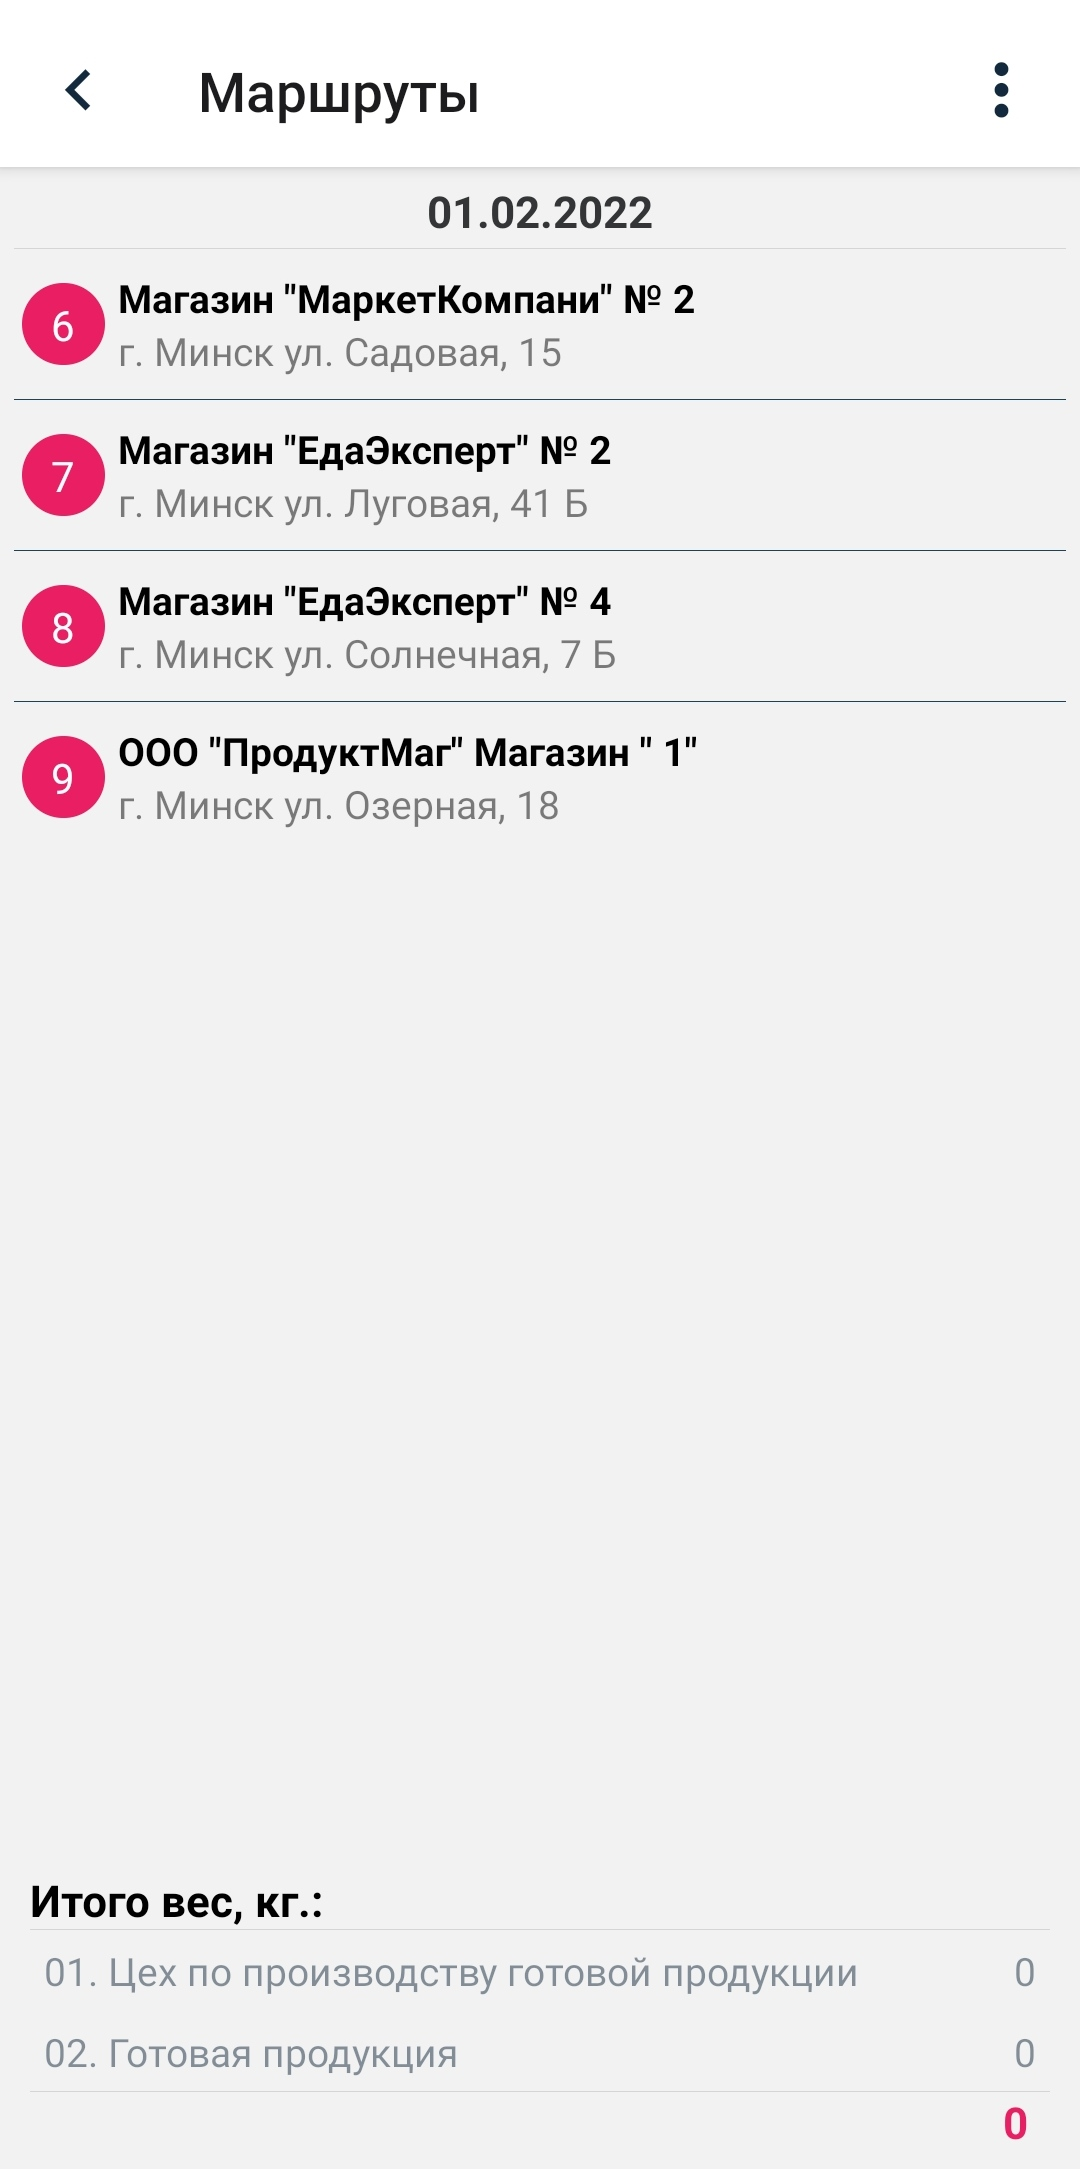
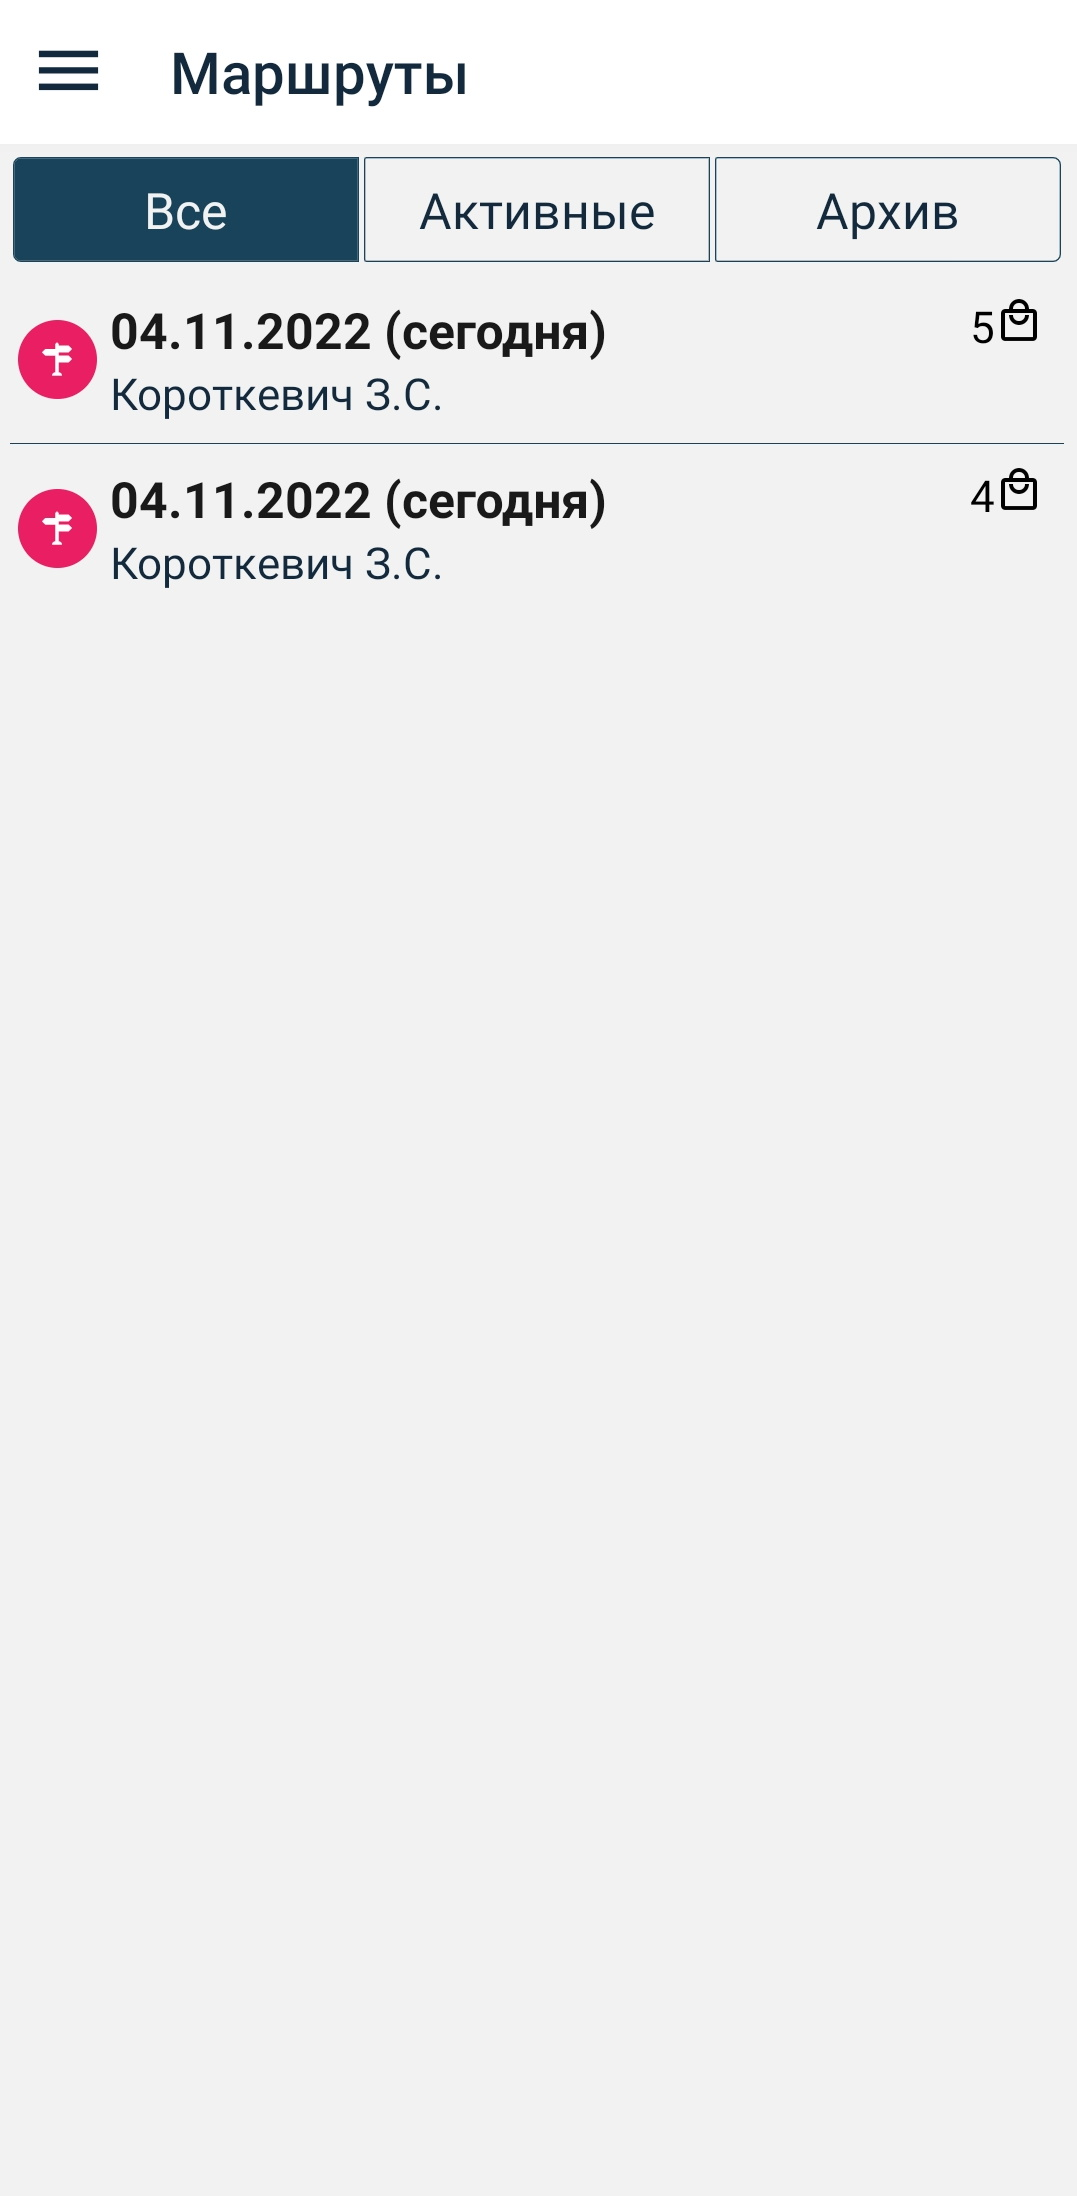
Changes docs

diff --git a/docs/gdmn-app-trade-agents/docs/README.md b/docs/gdmn-app-trade-agents/docs/README.md
@@ -360,9 +360,9 @@
 
 Ежедневно, в начале работы с приложением, необходимо делать синхронизацию для получения  справочников с актуальными даннными, матриц, дебеторских задолженностей и новых маршрутов. 
 
-Перейдем на экран **Точки маршрутов**.
+Перейдем на экран **Маршруты**, открыв боковую панель нажатием на иконку меню " **≡** ", находящуюся в левом верхнем углу приложения (или смахнув пальцем вправо с левого края устройства) и выбрав пункт **Маршруты**.
 
-Документы сгруппированы следующим образом:
+Документы на экране **Маршруты** сгруппированы следующим образом:
 
 | Группа | Описание                                                                                                                                                                    |
 | --------------- | --------------------------------------------------------------------------------------------------------------------------------------------------------------------------- |
@@ -370,7 +370,7 @@
 | Активные        | Маршруты, дата которых не менее текущей даты |
 | Архив           | Маршруты, дата которых меньше текущей даты |
 
-При выборе (нажатием на строку) необходимого маршрута откроется экран с торговыми точками, запланированными для посещения.
+При выборе (нажатием на строку) необходимого маршрута откроется экран с торговыми точками, запланированными для посещения, то есть переходим на экран **Точки маршрутов**.
 
 <img src="img/5.Routes/5.Routes.jpg" alt="drawing" height="400"/> <img src="img/5.Routes/5.Route.jpg" alt="drawing" height="400"/>
 
@@ -378,9 +378,10 @@
 
 Программа сама зафиксирует геокоординаты мобильного устройства и начало работы на торговой точке.
 
-При первом сеансе программа запросит разрешение на доступ к данным о месте расположения мобильного устройства, но в дальнейшем это будет проходить автоматически.
+При первом сеансе программа запросит разрешение на доступ к данным о месте расположения мобильного устройства, если ответ будет *"Всегда разрешать"*, то в дальнейшем это будет проходить автоматически. 
 
- !!!!!(в этот момент один раз телефон попросит разрешение на получение геокоординаты, которая будет записана в визит данной точки).?????
+Если ответ будет *"Только один раз"*, то программа снова запросит разрешение на доступ к данным при следующем открытии приложения. 
+
 
 Из экрана визита пользователь имеет возможность:
 - создать заявку
@@ -459,7 +460,7 @@
 
 
 | Значок         | Значение         |
-|----------------------|----------------------------------|
+|:----------------------:|----------------------------------|
 |<img src="img/1.Connection/1.IconDraft.JPG" alt="drawing" height="22"/>| _статус **Черновик**_, новый документ, который можно редактировать|
 |<img src="img/1.Connection/1.IconReadyToGo.JPG" alt="drawing" height="22"/>   | _статус **Готов к отправке**_, документ нельзя редактировать, но можно вернуть в статус **Черновик**   |
 |<img src="img/1.Connection/1.IconSent.JPG" alt="drawing" height="22"/>    | _статус **Отправлен**_, документ отправлен, ожидается подтверждение     |
